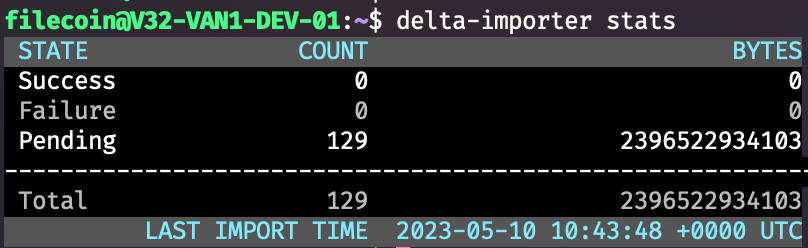
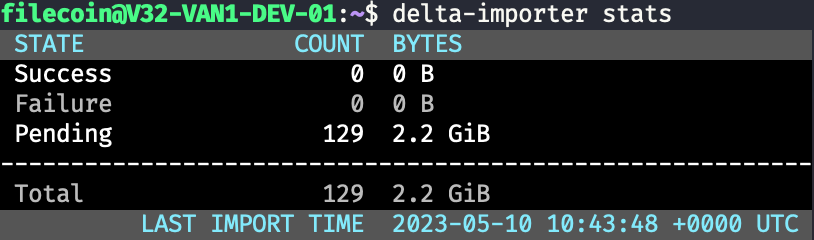
feat: make cli output bytes readable (#18)
* feat: add BytesToReadable func

* feat: update docs

Changed region(s): [[0.0, 0.0, 1.0, 1.0], [0.4022, 0.4958, 0.6188, 0.6125], [0.4022, 0.7583, 0.6188, 0.8458]]

diff --git a/cmd/cmds.go b/cmd/cmds.go
@@ -142,13 +142,13 @@ func SetupCommands() []*cli.Command {
 			t.SetOutputMirror(os.Stdout)
 			t.AppendHeader(table.Row{"State", "Count", "Bytes"})
 			t.AppendRows([]table.Row{
-				{"Success", statsJson.Success.Count.Int64, statsJson.Success.Bytes.Int64},
-				{"Failure", statsJson.Failure.Count.Int64, statsJson.Failure.Bytes.Int64},
-				{"Pending", statsJson.Pending.Count.Int64, statsJson.Pending.Bytes.Int64},
+				{"Success", statsJson.Success.Count.Int64, util.BytesToReadable(statsJson.Success.Bytes.Int64)},
+				{"Failure", statsJson.Failure.Count.Int64, util.BytesToReadable(statsJson.Failure.Bytes.Int64)},
+				{"Pending", statsJson.Pending.Count.Int64, util.BytesToReadable(statsJson.Pending.Bytes.Int64)},
 			})
 			t.AppendSeparator()
 			t.AppendRows([]table.Row{
-				{"Total", statsJson.TotalImported.Count.Int64, statsJson.TotalImported.Bytes.Int64},
+				{"Total", statsJson.TotalImported.Count.Int64, util.BytesToReadable(statsJson.TotalImported.Bytes.Int64)},
 			})
 			t.AppendFooter(table.Row{"", "Last Import Time", statsJson.LastImported})
 			t.SetStyle(table.StyleColoredDark)

diff --git a/util/util.go b/util/util.go
@@ -1,6 +1,7 @@
 package util
 
 import (
+	"fmt"
 	"math"
 	"os"
 	"path/filepath"
@@ -50,4 +51,25 @@ func UnixToHeight(unixEpoch int64) int64 {
 
 func HeightToUnix(height int64) int64 {
 	return (height * 30) + FILECOIN_GENESIS_UNIX_EPOCH
+}
+
+// Returns a human readable string for a given number of bytes
+// Auto-converts to KiB, MiB, GiB, TiB, PiB, etc.
+// Rounds to one decimal place
+func BytesToReadable(bytes int64) string {
+	const unit = 1024
+	if bytes < unit {
+		return fmt.Sprintf("%d B", bytes)
+	}
+	div, exp := int64(unit), 0
+	for n := bytes / unit; n >= unit; n /= unit {
+		div *= unit
+		exp++
+	}
+	size := float64(bytes) / float64(div)
+	suffix := []string{"KiB", "MiB", "GiB", "TiB", "PiB", "EiB", "ZiB", "YiB"}
+	if exp >= len(suffix) {
+		return fmt.Sprintf("%.1f B", size*float64(div))
+	}
+	return fmt.Sprintf("%.1f %s", size, suffix[exp-1])
 }
